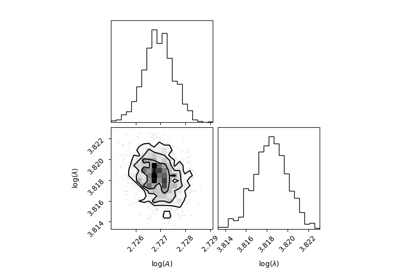
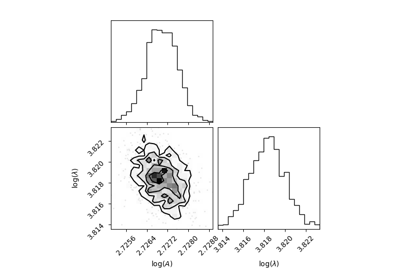
Update documentation
* Update the uq example due to the changes in `kliff.uq.mcmc`

diff --git a/docs/source/auto_examples/example_uq_mcmc.py b/docs/source/auto_examples/example_uq_mcmc.py
@@ -27,6 +27,7 @@ consisting of 4 compressed and stretched configurations of diamond silicon struc
 
 
 import numpy as np
+from multiprocessing import Pool
 from corner import corner
 
 from kliff.calculators import Calculator
@@ -35,10 +36,8 @@ from kliff.dataset.weight import MagnitudeInverseWeight
 from kliff.loss import Loss
 from kliff.models import KIMModel
 from kliff.models.parameter_transform import LogParameterTransform
+from kliff.uq import MCMC, autocorr, mser, rhat
 from kliff.utils import download_dataset
-
-from kliff.uq import MCMC, mser, autocorr, rhat
-
 
 ##########################################################################################
 # Before running MCMC, we need to define a loss function and train the model. More detail
@@ -124,6 +123,10 @@ nwalkers = 2 * ndim  # Number of parallel walkers to simulate
 # the temperatures via ``Tladder`` argument, which will overwrites ``ntemps`` and
 # ``Tmax_ratio``.
 #
+# The sampling processes can be parallelized by specifying the pool. Note that the pool
+# needs to be declared after instantiating :class:`~kliff.uq.MCMC`, since the posterior
+# function is defined during this process.
+#
 # .. note::
 #    It has been shown that including temperatures higher than :math:`T_0` helps the
 #    convergence of walkers sampled at :math:`T_0`.
@@ -142,9 +145,10 @@ sampler = MCMC(
     loss,
     ntemps=ntemps,
     logprior_args=(bounds,),
-    threads=nwalkers,
     random=np.random.RandomState(seed),
 )
+# Declare a pool to use parallelization
+sampler.pool = Pool(nwalkers)
 
 
 ##########################################################################################
@@ -174,7 +178,7 @@ for ii, bound in enumerate(bounds):
 
 # Run MCMC
 sampler.run_mcmc(p0, 5000)
-sampler.sampler.pool.close()
+sampler.pool.close()
 
 # Retrieve the chain
 chain = sampler.chain

diff --git a/examples/example_uq_mcmc.py b/examples/example_uq_mcmc.py
@@ -27,6 +27,7 @@ consisting of 4 compressed and stretched configurations of diamond silicon struc
 
 
 import numpy as np
+from multiprocessing import Pool
 from corner import corner
 
 from kliff.calculators import Calculator
@@ -122,6 +123,10 @@ nwalkers = 2 * ndim  # Number of parallel walkers to simulate
 # the temperatures via ``Tladder`` argument, which will overwrites ``ntemps`` and
 # ``Tmax_ratio``.
 #
+# The sampling processes can be parallelized by specifying the pool. Note that the pool
+# needs to be declared after instantiating :class:`~kliff.uq.MCMC`, since the posterior
+# function is defined during this process.
+#
 # .. note::
 #    It has been shown that including temperatures higher than :math:`T_0` helps the
 #    convergence of walkers sampled at :math:`T_0`.
@@ -140,9 +145,10 @@ sampler = MCMC(
     loss,
     ntemps=ntemps,
     logprior_args=(bounds,),
-    threads=nwalkers,
     random=np.random.RandomState(seed),
 )
+# Declare a pool to use parallelization
+sampler.pool = Pool(nwalkers)
 
 
 ##########################################################################################
@@ -172,7 +178,7 @@ for ii, bound in enumerate(bounds):
 
 # Run MCMC
 sampler.run_mcmc(p0, 5000)
-sampler.sampler.pool.close()
+sampler.pool.close()
 
 # Retrieve the chain
 chain = sampler.chain

diff --git a/docs/source/auto_examples/example_uq_mcmc.rst b/docs/source/auto_examples/example_uq_mcmc.rst
@@ -43,13 +43,14 @@ To start, let's first install the SW model::
    This installs the model and its driver into the ``User Collection``. See
    :ref:`install_model` for more information about installing KIM models.
 
-.. GENERATED FROM PYTHON SOURCE LINES 27-43
+.. GENERATED FROM PYTHON SOURCE LINES 27-42
 
 .. code-block:: default
 
 
 
     import numpy as np
+    from multiprocessing import Pool
     from corner import corner
 
     from kliff.calculators import Calculator
@@ -58,9 +59,9 @@ To start, let's first install the SW model::
     from kliff.loss import Loss
     from kliff.models import KIMModel
     from kliff.models.parameter_transform import LogParameterTransform
+    from kliff.uq import MCMC, autocorr, mser, rhat
     from kliff.utils import download_dataset
 
-    from kliff.uq import MCMC, mser, autocorr, rhat
 
 
 
@@ -68,15 +69,13 @@ To start, let's first install the SW model::
 
 
 
-
-
-.. GENERATED FROM PYTHON SOURCE LINES 44-47
+.. GENERATED FROM PYTHON SOURCE LINES 43-46
 
 Before running MCMC, we need to define a loss function and train the model. More detail
 information about this step can be found in :ref:`tut_kim_sw` and
 :ref:`tut_params_transform`.
 
-.. GENERATED FROM PYTHON SOURCE LINES 47-93
+.. GENERATED FROM PYTHON SOURCE LINES 46-92
 
 .. code-block:: default
 
@@ -151,11 +150,11 @@ information about this step can be found in :ref:`tut_kim_sw` and
 
     /home/yonatank/.local/lib/python3.8/site-packages/numpy/linalg/linalg.py:2500: VisibleDeprecationWarning: Creating an ndarray from ragged nested sequences (which is a list-or-tuple of lists-or-tuples-or ndarrays with different lengths or shapes) is deprecated. If you meant to do this, you must specify 'dtype=object' when creating the ndarray.
       x = asarray(x)
-    2022-06-03 09:15:57.114 | INFO     | kliff.dataset.dataset:_read:397 - 4 configurations read from /home/yonatank/modules/kliff/examples/Si_training_set_4_configs
-    2022-06-03 09:15:57.118 | INFO     | kliff.calculators.calculator:create:107 - Create calculator for 4 configurations.
-    2022-06-03 09:15:57.119 | INFO     | kliff.loss:minimize:290 - Start minimization using method: L-BFGS-B.
-    2022-06-03 09:15:57.119 | INFO     | kliff.loss:_scipy_optimize:404 - Running in serial mode.
-    2022-06-03 09:15:57.287 | INFO     | kliff.loss:minimize:292 - Finish minimization using method: L-BFGS-B.
+    2022-08-02 09:24:25.907 | INFO     | kliff.dataset.dataset:_read:398 - 4 configurations read from /home/yonatank/modules/kliff/examples/Si_training_set_4_configs
+    2022-08-02 09:24:25.910 | INFO     | kliff.calculators.calculator:create:107 - Create calculator for 4 configurations.
+    2022-08-02 09:24:25.911 | INFO     | kliff.loss:minimize:290 - Start minimization using method: L-BFGS-B.
+    2022-08-02 09:24:25.918 | INFO     | kliff.loss:_scipy_optimize:404 - Running in serial mode.
+    2022-08-02 09:24:26.122 | INFO     | kliff.loss:minimize:292 - Finish minimization using method: L-BFGS-B.
     #================================================================================
     # Model parameters that are optimized.
     # Note that the parameters are in the transformed space if 
@@ -174,14 +173,14 @@ information about this step can be found in :ref:`tut_kim_sw` and
 
 
 
-.. GENERATED FROM PYTHON SOURCE LINES 94-98
+.. GENERATED FROM PYTHON SOURCE LINES 93-97
 
 To perform MCMC simulation, we use :class:`~kliff.uq.MCMC`.This class interfaces with
 ptemcee_ Python package to run PTMCMC, which utilizes the affine invariance property
 of MCMC sampling. We simulate MCMC sampling at several different temperatures to
 explore the effect of the scale of bias and overall error bars.
 
-.. GENERATED FROM PYTHON SOURCE LINES 98-105
+.. GENERATED FROM PYTHON SOURCE LINES 97-104
 
 .. code-block:: default
 
@@ -199,7 +198,7 @@ explore the effect of the scale of bias and overall error bars.
 
 
 
-.. GENERATED FROM PYTHON SOURCE LINES 106-130
+.. GENERATED FROM PYTHON SOURCE LINES 105-133
 
 We start by instantiating :class:`~kliff.uq.MCMC`. This requires :class:`~kliff.loss.Loss`
 instance to construct the likelihood function. Additionally, we can specify the prior
@@ -222,11 +221,15 @@ will create a list of logarithmically spaced points from :math:`T = 1.0` to
 the temperatures via ``Tladder`` argument, which will overwrites ``ntemps`` and
 ``Tmax_ratio``.
 
+The sampling processes can be parallelized by specifying the pool. Note that the pool
+needs to be declared after instantiating :class:`~kliff.uq.MCMC`, since the posterior
+function is defined during this process.
+
 .. note::
    It has been shown that including temperatures higher than :math:`T_0` helps the
    convergence of walkers sampled at :math:`T_0`.
 
-.. GENERATED FROM PYTHON SOURCE LINES 130-150
+.. GENERATED FROM PYTHON SOURCE LINES 133-154
 
 .. code-block:: default
 
@@ -245,9 +248,10 @@ the temperatures via ``Tladder`` argument, which will overwrites ``ntemps`` and
         loss,
         ntemps=ntemps,
         logprior_args=(bounds,),
-        threads=nwalkers,
         random=np.random.RandomState(seed),
     )
+    # Declare a pool to use parallelization
+    sampler.pool = Pool(nwalkers)
 
 
 
@@ -257,7 +261,7 @@ the temperatures via ``Tladder`` argument, which will overwrites ``ntemps`` and
 
 
 
-.. GENERATED FROM PYTHON SOURCE LINES 151-168
+.. GENERATED FROM PYTHON SOURCE LINES 155-172
 
 .. note::
    As a default, the algorithm will set the number of walkers for each sampling
@@ -277,7 +281,7 @@ to specify the number of steps or iterations to take.
    ``K``, ``L``, and ``N`` are the number of temperatures, walkers, and parameters,
    respectively.
 
-.. GENERATED FROM PYTHON SOURCE LINES 168-183
+.. GENERATED FROM PYTHON SOURCE LINES 172-187
 
 .. code-block:: default
 
@@ -290,7 +294,7 @@ to specify the number of steps or iterations to take.
 
     # Run MCMC
     sampler.run_mcmc(p0, 5000)
-    sampler.sampler.pool.close()
+    sampler.pool.close()
 
     # Retrieve the chain
     chain = sampler.chain
@@ -303,7 +307,7 @@ to specify the number of steps or iterations to take.
 
 
 
-.. GENERATED FROM PYTHON SOURCE LINES 184-190
+.. GENERATED FROM PYTHON SOURCE LINES 188-194
 
 The resulting chains still need to be processed. First, we need to discard the first few
 iterations in the beginning of each chain as a burn-in time. This is similar to the
@@ -312,7 +316,7 @@ measurement. KLIFF provides a function to estimate the burn-in time, based on th
 Marginal Standard Error Rule (MSER). This can be accessed via
 :func:`~kliff.uq.mcmc_utils.mser`.
 
-.. GENERATED FROM PYTHON SOURCE LINES 190-205
+.. GENERATED FROM PYTHON SOURCE LINES 194-209
 
 .. code-block:: default
 
@@ -341,12 +345,12 @@ Marginal Standard Error Rule (MSER). This can be accessed via
 
  .. code-block:: none
 
-    Estimated burn-in time: 750
+    Estimated burn-in time: 480
 
 
 
 
-.. GENERATED FROM PYTHON SOURCE LINES 206-215
+.. GENERATED FROM PYTHON SOURCE LINES 210-219
 
 .. note::
    :func:`~kliff.uq.mcmc_utils.mser` only compute the estimation of the burn-in time for
@@ -358,7 +362,7 @@ every :math:`\tau`-th iteration from the remaining chain, where :math:`\tau` is 
 autocorrelation length, to ensure uncorrelated samples.
 This calculation can be done using :func:`~kliff.uq.mcmc_utils.autocorr`.
 
-.. GENERATED FROM PYTHON SOURCE LINES 215-228
+.. GENERATED FROM PYTHON SOURCE LINES 219-232
 
 .. code-block:: default
 
@@ -385,12 +389,12 @@ This calculation can be done using :func:`~kliff.uq.mcmc_utils.autocorr`.
 
  .. code-block:: none
 
-    Estimated autocorrelation length: 14
+    Estimated autocorrelation length: 15
 
 
 
 
-.. GENERATED FROM PYTHON SOURCE LINES 229-242
+.. GENERATED FROM PYTHON SOURCE LINES 233-246
 
 .. note::
    :func:`~kliff.uq.mcmc_utils.acorr` is a wrapper for emcee.autocorr.integrated_time_,
@@ -406,7 +410,7 @@ reduction factor (PSRF), denoted by :math:`\hat{R}^p`. The value of :math:`\hat{
 declines to 1 as the number of iterations goes to infinity. A common threshold is about
 1.1, but higher threshold has also been used.
 
-.. GENERATED FROM PYTHON SOURCE LINES 242-255
+.. GENERATED FROM PYTHON SOURCE LINES 246-259
 
 .. code-block:: default
 
@@ -433,12 +437,12 @@ declines to 1 as the number of iterations goes to infinity. A common threshold i
 
  .. code-block:: none
 
-    $\hat{r}^p$ values: [1.0991534  1.07341457 1.07658106 1.02770675]
+    $\hat{r}^p$ values: [0.99832965 1.07774255 1.10594832 1.07248159]
 
 
 
 
-.. GENERATED FROM PYTHON SOURCE LINES 256-268
+.. GENERATED FROM PYTHON SOURCE LINES 260-272
 
 .. note::
    :func:`~kliff.uq.mcmc_utils.rhat` only computes the PSRF for one temperature, so that
@@ -453,7 +457,7 @@ parameters can be obtained by observing the distribution of the samples. As an e
 we will use corner_ Python package to present the MCMC result at sampling
 temperature 1.0 as a corner plot.
 
-.. GENERATED FROM PYTHON SOURCE LINES 268-272
+.. GENERATED FROM PYTHON SOURCE LINES 272-276
 
 .. code-block:: default
 
@@ -481,7 +485,7 @@ temperature 1.0 as a corner plot.
 
 
 
-.. GENERATED FROM PYTHON SOURCE LINES 273-283
+.. GENERATED FROM PYTHON SOURCE LINES 277-287
 
 .. note::
    As an alternative, KLIFF also provides a wrapper to emcee_.This can be accessed by
@@ -497,7 +501,7 @@ temperature 1.0 as a corner plot.
 
 .. rst-class:: sphx-glr-timing
 
-   **Total running time of the script:** ( 3 minutes  21.177 seconds)
+   **Total running time of the script:** ( 3 minutes  32.471 seconds)
 
 
 .. _sphx_glr_download_auto_examples_example_uq_mcmc.py:

diff --git a/docs/source/auto_examples/sg_execution_times.rst b/docs/source/auto_examples/sg_execution_times.rst
@@ -5,10 +5,10 @@
 
 Computation times
 =================
-**03:21.177** total execution time for **auto_examples** files:
+**03:32.471** total execution time for **auto_examples** files:
 
 +---------------------------------------------------------------------------------------------------+-----------+--------+
-| :ref:`sphx_glr_auto_examples_example_uq_mcmc.py` (``example_uq_mcmc.py``)                         | 03:21.177 | 0.0 MB |
+| :ref:`sphx_glr_auto_examples_example_uq_mcmc.py` (``example_uq_mcmc.py``)                         | 03:32.471 | 0.0 MB |
 +---------------------------------------------------------------------------------------------------+-----------+--------+
 | :ref:`sphx_glr_auto_examples_example_kim_SW_Si.py` (``example_kim_SW_Si.py``)                     | 00:00.000 | 0.0 MB |
 +---------------------------------------------------------------------------------------------------+-----------+--------+
